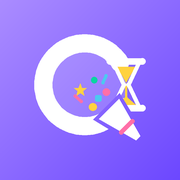
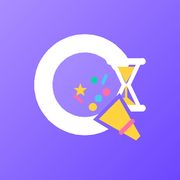
[add] キャッチコピー「指折り数えて、大切な日を待とう」を見出しの下と OGP に入れる。Q のクラッカーを黄色に（帯はピンク）

Changed region(s): [[0.5556, 0.5556, 0.7778, 0.7778]]

diff --git a/create.html b/create.html
@@ -24,7 +24,7 @@
 <link rel="manifest" href="manifest.webmanifest">
 <link rel="preconnect" href="https://fonts.googleapis.com">
 <link href="https://fonts.googleapis.com/css2?family=M+PLUS+Rounded+1c:wght@400;700;800&display=swap" rel="stylesheet">
-<link rel="stylesheet" href="style.css?v=202610161900">
+<link rel="stylesheet" href="style.css?v=202610162330">
 <style>
   label, .label { display: block; margin-bottom: 6px; font-size: 16px; font-weight: 700; }
   .opt { margin-left: 4px; font-size: 13px; font-weight: 400; color: var(--ink-soft); }
@@ -129,6 +129,7 @@
     <p class="brand-name"><img class="brand-icon" src="icon.svg" alt="" width="28" height="28">くろのす</p>
     <img class="brand-logo" src="logo.svg" alt="Qronos" width="81" height="28">
   </div>
+  <p class="brand-copy">指折り数えて、大切な日を待とう</p>
   <h1>記念日・カウントダウン</h1>
   <p class="sub">日付を入れるだけで「あと何日？」「今日で何日目？」がいつでもわかるページができます。LINEにカードで送れます。</p>
 

diff --git a/index.html b/index.html
@@ -24,7 +24,7 @@
 <link rel="manifest" href="manifest.webmanifest">
 <link rel="preconnect" href="https://fonts.googleapis.com">
 <link href="https://fonts.googleapis.com/css2?family=M+PLUS+Rounded+1c:wght@400;700;800&display=swap" rel="stylesheet">
-<link rel="stylesheet" href="style.css?v=202610161900">
+<link rel="stylesheet" href="style.css?v=202610162330">
 <style>
   .hero { text-align: center; }
   .hero .emoji { font-size: 56px; line-height: 1.2; }
@@ -170,6 +170,7 @@
   <section id="empty" class="card empty" hidden>
     <img class="brand-mark" src="icon.svg" alt="" width="72" height="72">
     <p class="brand-name">くろのす <span class="brand-en">〜Qronos〜</span></p>
+    <p class="brand-copy">指折り数えて、大切な日を待とう</p>
     <h1>記念日・カウントダウン</h1>
     <p class="sub">誕生日や記念日、旅行の日までを数えて、LINEで送れるページを作ります。</p>
     <a class="btn" href="create.html">はじめる</a>

diff --git a/style.css b/style.css
@@ -117,3 +117,6 @@ a { color: color-mix(in srgb, var(--accent) 80%, #000); }
   -webkit-touch-callout: default;
 }
 .snap-actions { display: grid; gap: 8px; }
+
+/* キャッチコピー（見出しの行のすぐ下。おくるんの「つくって、おくるん」と同じ役目） */
+.brand-copy { margin: 0 0 10px; color: #6C47FF; font-size: 13px; font-weight: 800; line-height: 1.4; letter-spacing: 0.02em; }

diff --git a/tools/icon.py b/tools/icon.py
@@ -22,6 +22,9 @@ BRAND = Brand(light=(170, 140, 255), dark=(108, 71, 255))  # style.css の --acc
 
 # ページと同じポップな色（紙吹雪）
 YELLOW, PINK, SKY, MINT = (255, 210, 63), (255, 111, 168), (76, 201, 240), (6, 214, 160)
+RED = (255, 92, 92)
+# クラッカーの本体と帯の色（白い輪の中で、しっぽがクラッカーだとわかるように色をつける）
+POPPER_BODY, POPPER_BAND = YELLOW, PINK  # 黄色のクラッカーにピンクの帯
 
 C = (44, 46)  # 輪の中心
 R, RING_W = 23, 10  # 輪の半径（線の真ん中）・太さ
@@ -54,20 +57,21 @@ def hourglass():
     ]
 
 
-def popper():
+def popper(body=None, band=None):
     """クラッカー（とがった方が外、口が真ん中）と、口から輪の中へはじける紙吹雪"""
+    body, band = body or POPPER_BODY, band or POPPER_BAND
     side = lambda p, d: [polar(p, POPPER_DIR - 90, d), polar(p, POPPER_DIR + 90, d)]  # noqa: E731
     tip_l, tip_r = side(POPPER_TIP, 1.6)
     mouth_l, mouth_r = side(POPPER_MOUTH, 8)
     gap_tip_l, gap_tip_r = side(polar(POPPER_TIP, POPPER_DIR, 2), 3.8)
     gap_mouth_l, gap_mouth_r = side(polar(POPPER_MOUTH, POPPER_DIR + 180, 2), 10.4)
-    band = polar(C, POPPER_DIR, 33)
+    band_at = polar(C, POPPER_DIR, 33)
     inward = POPPER_DIR + 180  # 真ん中への向き
     burst = lambda a, d: polar(POPPER_MOUTH, inward + a, d)  # noqa: E731
     return [
         {"t": "poly", "p": [gap_tip_l, gap_mouth_l, gap_mouth_r, gap_tip_r], "fill": "bg"},  # まわりを背景の色で削る
-        {"t": "poly", "p": [tip_l, mouth_l, mouth_r, tip_r]},
-        {"t": "line", "p": side(band, 4.4), "w": 2.4, "fill": PINK},
+        {"t": "poly", "p": [tip_l, mouth_l, mouth_r, tip_r], "fill": body},
+        {"t": "line", "p": side(band_at, 4.4), "w": 2.4, "fill": band},
         # 輪の中へはじける紙吹雪
         {"t": "circle", "c": burst(-38, 9), "r": 2.2, "fill": YELLOW},
         {"t": "rect", "box": (*burst(0, 11), *[v + 3.6 for v in burst(0, 11)]), "rx": 1, "fill": SKY},
@@ -79,14 +83,17 @@ def popper():
     ]
 
 
-SHAPES = [
-    {"t": "circle", "c": C, "r": R, "alpha": 0.16},  # 輪の内側（うっすら）
-    {"t": "line", "p": arc(C, R, ARC_START, ARC_END), "w": RING_W},  # C
-    *hourglass(),
-    *popper(),
-]
-# 外形（しっぽを含む）の真ん中をアイコンの真ん中にそろえ、Q の重心が片寄って見えないようにする（ロゴも同じ形を使う）
-SHAPES, (_DX, _DY) = centered(SHAPES)
+def build(body=None, band=None):
+    """Q の形。外形（しっぽを含む）の真ん中をアイコンの真ん中にそろえ、Q の重心が片寄って見えないようにする（ロゴも同じ形を使う）"""
+    return centered([
+        {"t": "circle", "c": C, "r": R, "alpha": 0.16},  # 輪の内側（うっすら）
+        {"t": "line", "p": arc(C, R, ARC_START, ARC_END), "w": RING_W},  # C
+        *hourglass(),
+        *popper(body, band),
+    ])
+
+
+SHAPES, (_DX, _DY) = build()
 C = (C[0] + _DX, C[1] + _DY)
 RING_OUTER = R + RING_W / 2
 
@@ -95,7 +102,7 @@ def main():
     BRAND.write_icons(ROOT, SHAPES)
     logo, ratio = BRAND.logo_svg("Qronos", SHAPES, C, RING_OUTER, "Qronos（くろのす）")
     (ROOT / "logo.svg").write_text(logo, encoding="utf-8")
-    BRAND.write_ogp(ROOT / "ogp.png", SHAPES, "くろのす", "Qronos", ["記念日まで「あと何日？」", "今日で何日目？を LINE で送れる"])
+    BRAND.write_ogp(ROOT / "ogp.png", SHAPES, "くろのす", "Qronos", ["記念日まで「あと何日？」", "今日で何日目？を LINE で送れる"], copy="指折り数えて、大切な日を待とう")
     print(f"アイコン・logo.svg（高さ 28px なら幅 {28 * ratio:.0f}px）・ogp.png を書き出しました")
 
 
